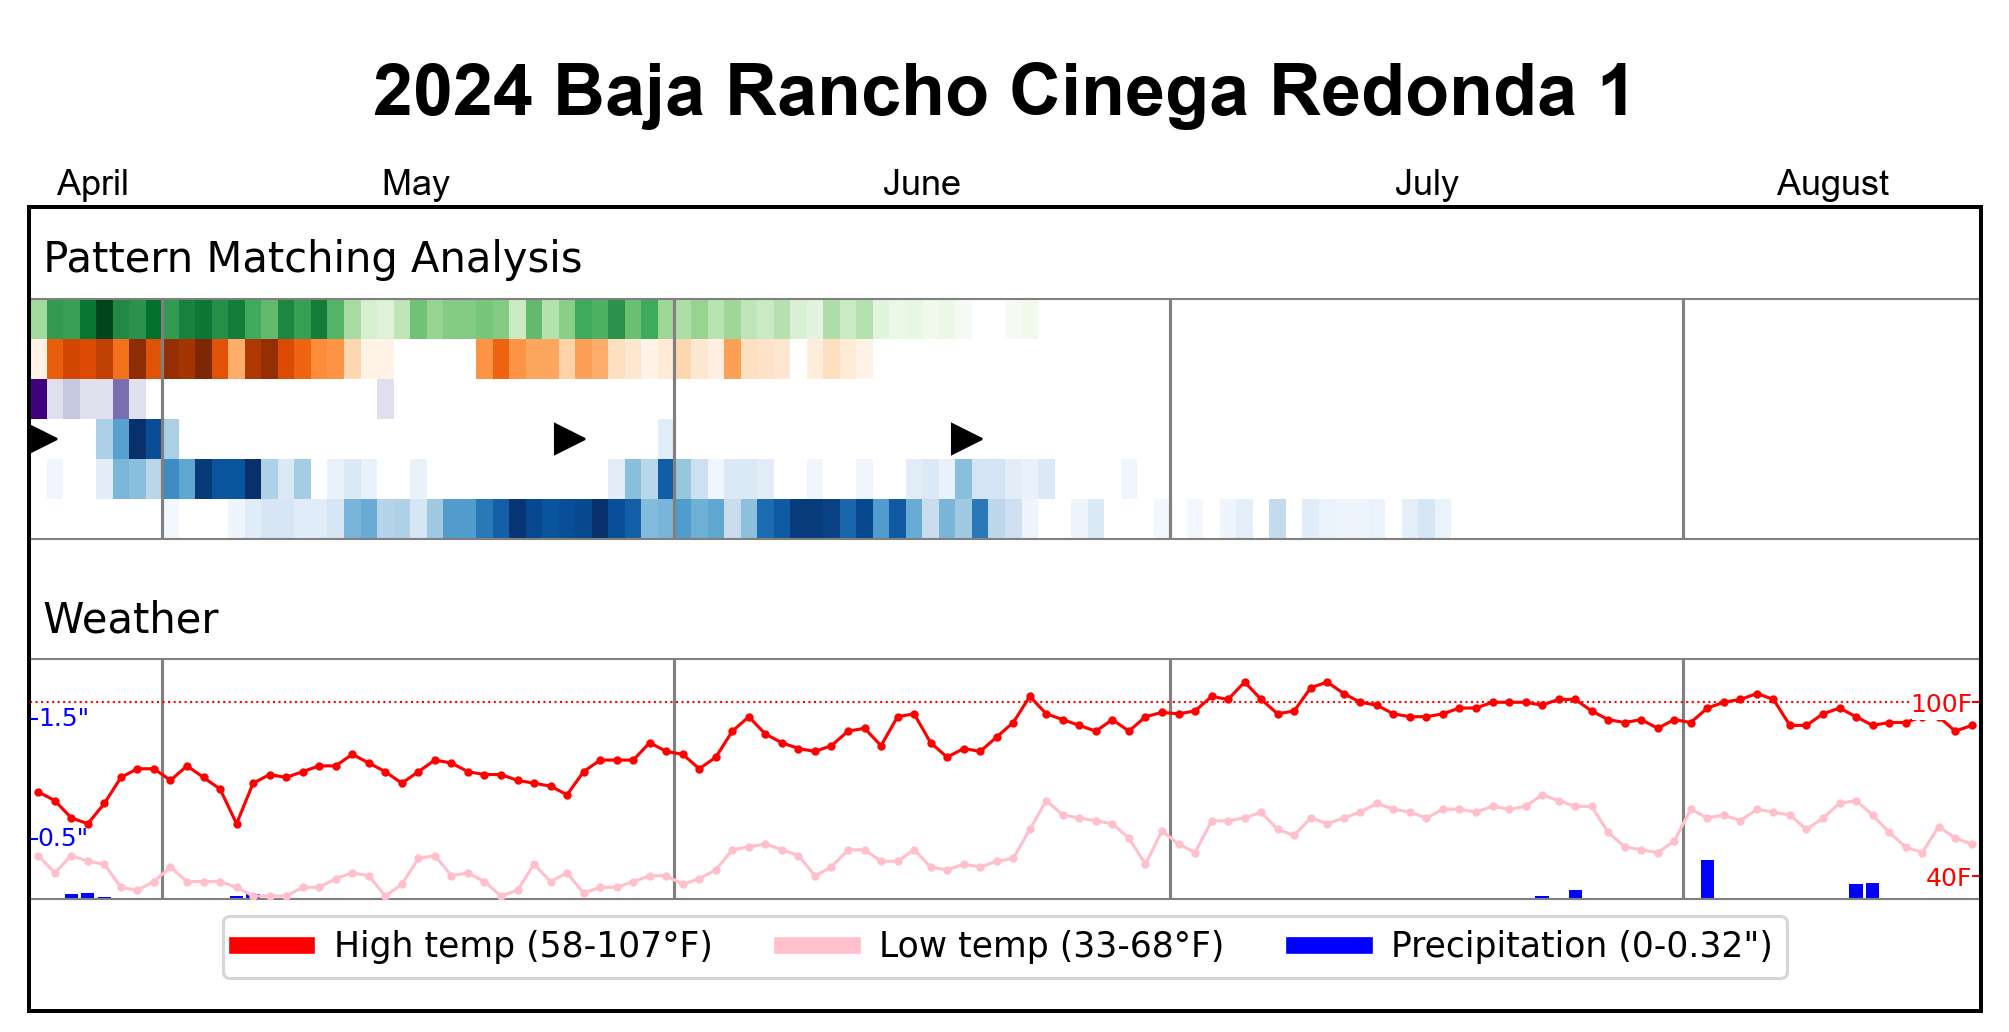
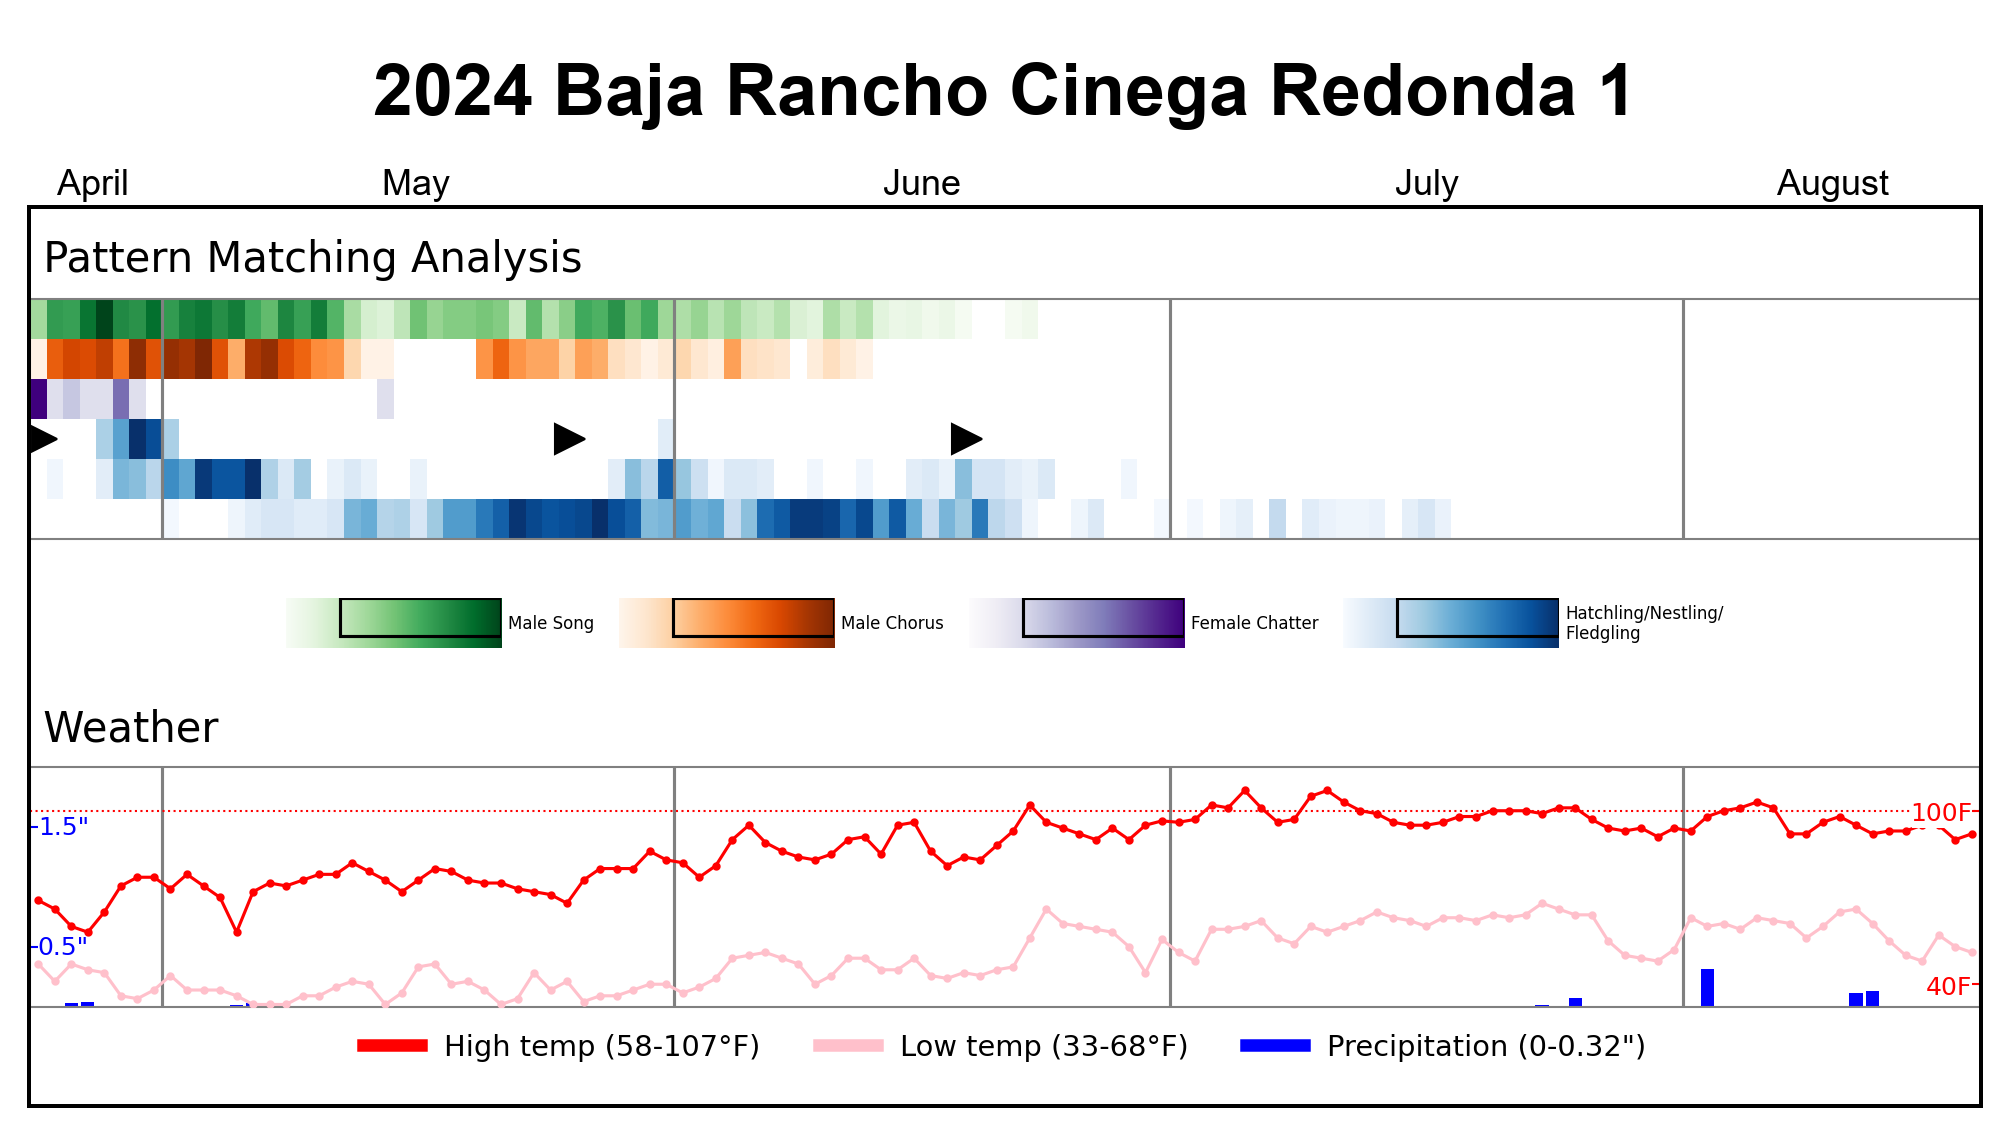
Did a bunch of cleanup for the legends

diff --git a/TRBLSummarizer/TRBLSummarizer.py b/TRBLSummarizer/TRBLSummarizer.py
@@ -30,7 +30,7 @@ import gc
 profiling = False
 
 #Set to true before I deploy
-being_deployed_to_streamlit = True
+being_deployed_to_streamlit = False
 
 # Constants and Globals
 #
@@ -210,7 +210,7 @@ cmap = {data_col[MALE_SONG]:'Greens',
 cmap_names = {data_col[MALE_SONG]:"Male Song",
               data_col[COURT_SONG]:"Male Chorus",
               data_col[ALTSONG2]:"Female Chatter",
-              data_col[ALTSONG1]:"Hatchling/Nestling/\nFledgling",
+              data_col[ALTSONG1]:"Hatchling/Nestling/Fledgling",
 #   temporarily don't need this
 #              "Fledgling":"Fledgling",
 } 
@@ -1363,34 +1363,60 @@ def set_global_theme():
 
 
 def output_cmap():
-    #Save the legend, unless it's already there
+    #Save the legend
     figure_path = figure_dir / legend_name
-    if not os.path.exists(figure_path):
-        plt.savefig(figure_path, dpi='figure', bbox_inches='tight')    
+    if os.path.exists(figure_path):
+        os.remove(figure_path)
+    plt.savefig(figure_path, dpi='figure', bbox_inches='tight', pad_inches=0)    
 
 
 def draw_legend(cmap:dict, make_all_graphs:bool, save_files:bool):
-    gradient = np.linspace(0, 1, 256)
+    gradient = np.linspace(0, 1, 32)
     gradient = np.vstack((gradient, gradient))
 
-    #Create the figure, 25% of the height of the other graphs
-    fig = plt.figure(figsize=(fig_w, fig_h*0.25), layout='constrained')
-    #Add one grid square for each colormap
-    gs = fig.add_gridspec(nrows=1, ncols=len(cmap_names), wspace=0)
-    axs = gs.subplots()
+    n = len(cmap_names)
+    # Create one axis per legend item
+    fig, axs = plt.subplots(nrows=1, ncols=n, figsize=(fig_w*0.6, fig_h*0.1))
 
-    for ax, call_type in zip(axs, cmap_names):
-        #Draw the gradient
-        ax.imshow(gradient, aspect='auto', cmap=mpl.colormaps[cmap[call_type]])
-        #Add a border
-        ax.add_patch(Rectangle((0,0), 1, 1, ec='black', fill=False, transform=ax.transAxes))
-        #Add the name
-        ax.text(1.03, 0.5, cmap_names[call_type], verticalalignment='center', horizontalalignment='left',
-                fontsize=6, transform=ax.transAxes)
+    for ax, (key, label) in zip(axs, cmap_names.items()):
+        # Set the axis coordinate system to [0,1] in both directions
+        # Draw the color block: we reserve x from 0 to 0.35 for the block.
+        ax.imshow(gradient, extent=[0, 0.35, 0.1, 0.9], aspect="auto", cmap=mpl.colormaps[cmap[key]], transform=ax.transAxes)
+        # Draw a border around the color block
+        #ax.add_patch(Rectangle((0, 0), 0.35, 1, transform=ax.transAxes,
+        #                       edgecolor="black", linewidth=0.5, fill=False))
         
-    # Turn off all axes, so we don't draw any ticks, spines, labels, etc.
-    for ax in axs:
+        # Add the label text immediately to the right of the color block.
+        # Here, x=0.37 places the text just to the right of the block.
+        ax.text(0.37, 0.5, label, transform=ax.transAxes, 
+                va="center", ha="left", 
+                fontsize=5)
+        
+        # Remove the axis visuals
         ax.set_axis_off()
+ 
+    plt.subplots_adjust(left=0, right=1, top=1, bottom=0, wspace=0, hspace=0)
+
+        # color_ax = axs[i * 2]   # Color box axis
+        # text_ax = axs[i * 2 + 1]  # Text label axis
+        
+        # #Draw the gradient
+        # color_ax.imshow(gradient, aspect="auto", cmap=mpl.colormaps[cmap[key]])
+
+        # #Add a border
+        # color_ax.add_patch(Rectangle((0, 0), 1, 1, ec="black", fill=False, transform=color_ax.transAxes))
+
+        # #Add the name
+        # # ax.text(1.03, 0.5, cmap_names[call_type], 
+        # #         verticalalignment='center', horizontalalignment='left',
+        # #         fontsize=4, 
+        # #         transform=ax.transAxes)
+        # text_ax.text(-0.5, 0.5, label, 
+        #              va="center", ha="left", 
+        #              fontsize=5)
+
+        # text_ax.set_axis_off()
+        # color_ax.set_axis_off()
 
     if not make_all_graphs:
         st.pyplot(fig)
@@ -2180,7 +2206,7 @@ def combine_images(site:str, month_locs:dict, include_weather:bool):
         # exclude weather for now, we need to add it after the legend
         images = [Image.open(filename) for graph_type,filename in site_fig_dict.items() if graph_type != GRAPH_WEATHER] 
         composite = concat_images(*images)
-        if False: #I don't want the legend for now, I'm sure this is going to haunt me later by doing it this way NO LEGEND
+        if True: #TODO decide if there is any logic needed about when to save the legend
             composite = concat_images(*[composite, Image.open(legend)], is_legend=True)
         #Add the weather graph only if it exists, to prevent an error if we haven't obtained it yet
         if GRAPH_WEATHER in site_fig_dict.keys() and include_weather:
@@ -2420,13 +2446,13 @@ def create_weather_graph(weather_by_type:dict, site_name:str) -> plt.figure:
                      f"{weather_by_type[WEATHER_TMIN]['value'].max():.0f}\u00B0F)"
         prcp_label = f"Precipitation (0-"\
                      f"{weather_by_type[WEATHER_PRCP]['value'].max():.2f}\042)"
-        legend_elements = [Line2D([0], [0], color=wg_colors['high'], lw=4, label=tmax_label),
-                           Line2D([0], [0], color=wg_colors['low'], lw=4, label=tmin_label),
-                           Line2D([0], [0], color=wg_colors['prcp'], lw=4, label=prcp_label)]
+        legend_elements = [Line2D([0], [0], color=wg_colors['high'], lw=3, label=tmax_label),
+                           Line2D([0], [0], color=wg_colors['low'], lw=3, label=tmin_label),
+                           Line2D([0], [0], color=wg_colors['prcp'], lw=3, label=prcp_label)]
         
         #draw the legend below the chart. that's what the bbox_to_anchor with -0.5 does
         ax1.legend(handles=legend_elements, loc='upper center', bbox_to_anchor=(0.5, -0.25), ncol=3,
-                   fontsize='x-small')
+                   fontsize=5, frameon=False)
 
     else:
         fig = plt.figure()
@@ -2777,7 +2803,7 @@ def make_one_row_pm_summary(df: pd.DataFrame):
     fig, ax = plt.subplots(figsize=(fig_w, fig_h/2))
     aspect_ratio = fig_w / (fig_h/2)
 
-
+    #We're not using this so commenting it out now
     for date_idx, date in enumerate(data):
         min_value = 2
         total_phases = sum(data[date] > min_value)
@@ -3109,6 +3135,7 @@ for site in target_sites:
         if date_range_dict:
             pm_date_range_dict = date_range_dict  
         else:
+            #TODO GET THE DATES FROM THE SHEET INSTEAD??? May be irrelevant after we get the new XL files
             pm_date_range_dict = get_date_range(df_pattern_match, make_all_graphs, container_top)
 
         if len(df_pattern_match):
@@ -3237,8 +3264,9 @@ for site in target_sites:
 
         output_graph(site, GRAPH_PM, save_files, make_all_graphs, pm_data_empty)
 
-        if not make_all_graphs:
-            make_one_row_pm_summary(df = pt_pm)
+        # We're not using this now so commenting it out
+        # if not make_all_graphs:
+        #     make_one_row_pm_summary(df = pt_pm)
 
     # Edge Analysis
     if not pt_edge.empty and False:
